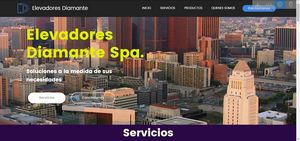
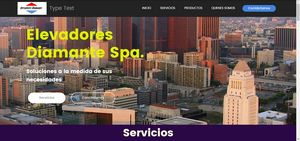
tercer commit

Changed region(s): [[0.03, 0.0, 0.3, 0.1135], [0.84, 0.0, 0.99, 0.0851]]

diff --git a/index.html b/index.html
@@ -6,7 +6,7 @@
   <meta http-equiv="X-UA-Compatible" content="IE=edge">
   <meta name="generator" content="Mobirise v4.10.3, mobirise.com">
   <meta name="viewport" content="width=device-width, initial-scale=1, minimum-scale=1">
-  <link rel="shortcut icon" href="assets/images/logo-elevadores-diamante-01-128x69.png" type="image/x-icon">
+  <link rel="shortcut icon" href="assets/images/favicon-128x56.png" type="image/x-icon">
   <meta name="description" content="Empresa dedicada a la prestación de servicios relacionados con elevadores, ascensores.">
   
   <title>Elevadores Diamante</title>
@@ -36,7 +36,7 @@
                 <div class="navbar-brand">
                 <span class="navbar-logo">
                     <a href="index.html">
-                        <img src="assets/images/logo-elevadores-diamante-1-122x66.png" alt="ED" title="" style="height: 3.8rem;">
+                        <img src="assets/images/favicon-178x78.jpg" alt="ED" title="" style="height: 5rem;">
                     </a>
                 </span>
                 <span class="navbar-caption-wrap"><a href="index.html" class="brand-link mbr-white display-5"></a></span>
@@ -175,8 +175,7 @@ de servicio útil. También aplica para
 aquellos ascensores cuya tecnología es
 muy poco manejable y que por su
 complejidad terminan por tener muchas
-dificultades a la hora de resolver sus
-eriódicas averías, causando muchas y
+dificultades a la hora de resolver sus periódicas averías, causando muchas y
 extensas paralizaciones del servicio.
 <br><br>Contamos con personal especializado con
 más de 30 años de experiencia en esta
@@ -361,7 +360,7 @@ tecnología totalmente libre.</p>
                     <h2 class="mbr-fonts-style mb-4 display-2">Contáctanos</h2>
                     <h3 class="mbr-section-subtitle mbr-fonts-style mb-4 mbr-light display-5">Consúltanos por tu problema y te ayudamos a resolverlos de la maneras más eficiente y ecónomica.</h3>
                     <div data-form-alert="" hidden="">¡Gracias por contáctarnos nos comunicaremos contigo a la brevedad!</div>
[2 lines of base64/hex data omitted]
                         <div class="row">
                             <div class="col-md-12" data-for="name">
                                 <input type="text" class="form-control input" name="name" data-form-field="Name" placeholder="Nombre" required="" id="name-form3-4">
